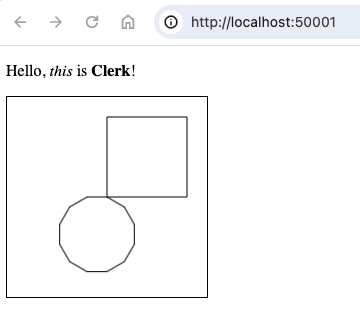
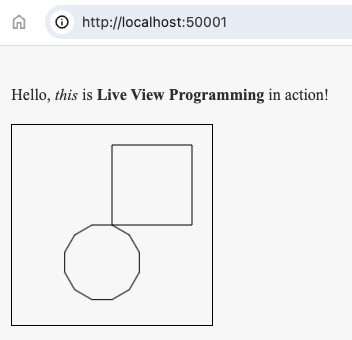
Erstes Beispielbild aktualisier

diff --git a/README.md b/README.md
@@ -48,10 +48,10 @@ $38 ==> LiveView@2d38eb89
 Probieren wir einen einfachen Begrüßungstext im Markdown-Format:
 
 ```java
-jshell> Clerk.markdown("Hello, _this_ is **Clerk**!")
+jshell> Clerk.markdown("Hello, _this_ is **Live View Programming** in action!")
 ```
 
-Im Browser ist "Hello, _this_ is **Clerk**!" zu sehen. 😀
+Im Browser ist "Hello, _this_ is **Live View Programming** in action!" zu sehen. 😀
 
 Als nächstes erzeugen wir eine kleine _Turtle_-Grafik. Die Idee, eine Grafik mit einer Schildkröte (_turtle_) zu programmieren, hat die Programmiersprache Logo in die Welt getragen. Mehr dazu erfahren Sie im nächsten Abschnitt.
 
